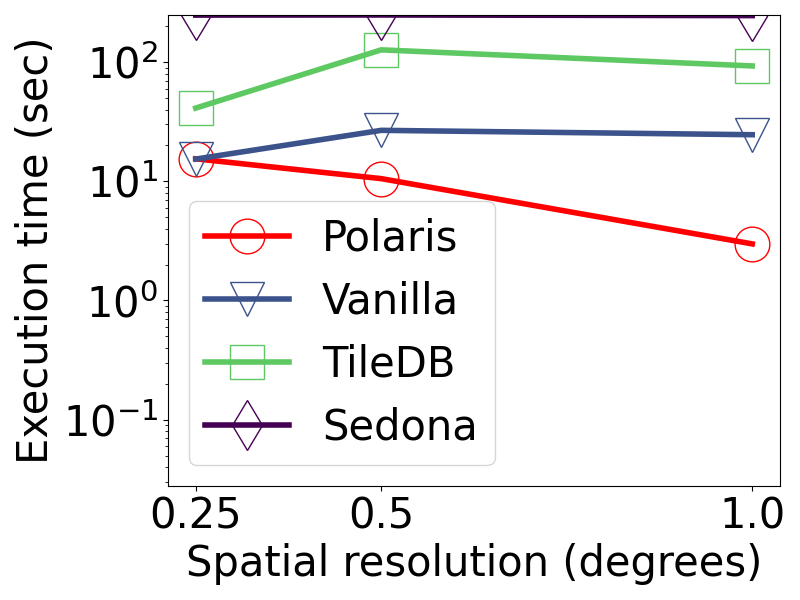
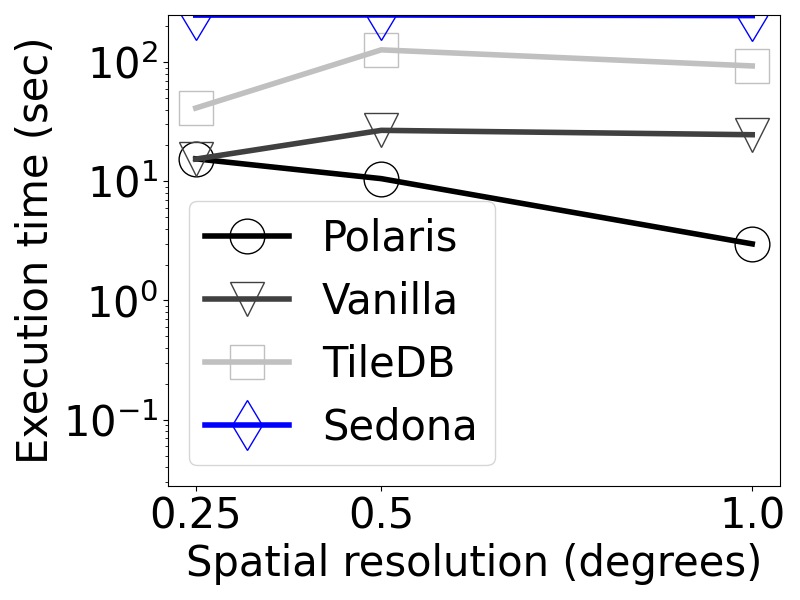
plots resolution grey blue

diff --git a/plots/find_time_driver.py b/plots/find_time_driver.py
@@ -1,0 +1,93 @@
+import pandas as pd
+import matplotlib.pyplot as plt
+import matplotlib
+
+# Load the CSV file
+csv_file_path = "/home/uribe055/merra_2/experiments/results/" + "results_find_time.csv"
+df = pd.read_csv(csv_file_path)
+
+x = "filter_value"
+line = "sys"
+y = "total_time"
+
+# Get unique plot values
+# unique_plots = ["025_H",  "05_M", "1_Y"]
+# cur_plot = [[0.25, "hour"], [0.5, "month"], [1, "year"]]
+unique_plots = ["1_H",  "05_M", "025_Y"]
+# cur_plot = [[1, "hour"], [0.5, "month"], [0.25, "year"]]
+cur_plot = [[2, "hour"], [1, "month"], [0, "year"]]
+
+
+marker_size = 25
+m_fill="none"
+font_size = 30
+tick_font_size = 30
+tick_size = 30
+tick_list = [-0.0005, 0, 0.0005, 0.05, 0.5, 1.5, 2.5, 4.5, 5.5, 6.5]
+tick_labels = [-0.0005, 0, 0.0005, 0.05, 0.5, 1.5, 2.5, 4.5, 5.5, 6.5]
+line_width = 4
+above = "bottom"
+below = "top"
+y_label = "Execution time (sec)"
+viridis = matplotlib.colormaps["viridis"]
+colors = [viridis(i) for i in [0, 0.25, 0.5, 0.75]]
+x_label = "Filter value"
+
+# Define style dictionary based on 'line' values
+style_dict = {
+    "Polaris": {"marker": "o", "markersize": marker_size, "linewidth": line_width, "color": "red", "labelsize": font_size, "ticksize": tick_size, "ticklist": tick_list, "ticklabels": tick_labels, "fill": "none"},
+    "Polaris-ERA5": {"marker": "o", "markersize": marker_size, "linewidth": line_width, "color": "red", "labelsize": font_size, "ticksize": tick_size, "ticklist": tick_list, "ticklabels": tick_labels, "fill": "full"},
+    "Polaris-MERRA2": {"marker": "d", "markersize": marker_size, "linewidth": line_width, "color": "red", "labelsize": font_size, "ticksize": tick_size, "ticklist": tick_list, "ticklabels": tick_labels, "fill": "full"},
+    "Vanilla": {"marker": "v", "markersize": marker_size, "linewidth": line_width, "color": colors[1], "labelsize": font_size, "ticksize": tick_size, "ticklist": tick_list, "ticklabels": tick_labels, "fill": "none"},
+    "TDB": {"marker": "s", "markersize": marker_size, "linewidth": line_width, "color": colors[3], "labelsize": font_size, "ticksize": tick_size, "ticklist": tick_list, "ticklabels": tick_labels, "fill": "none"},
+}
+
+# Determine global y-axis limits
+y_min = df[y].min()
+y_max = df[y].max()
+
+# legend position ["025_H" = , "025_Y" = , "05_M" = , "1_H" = , "1_Y = "]
+legend_position = ["best", "best", "best"]
+
+
+# Generate and save individual plots
+for plot_value, vals, position in zip(unique_plots, cur_plot, legend_position): # strings, [0.25, H]...
+    fig, ax = plt.subplots(figsize=(8, 6))
+    sub1 = df[df["s_res"] == vals[0]]
+    subset = sub1[sub1["t_res"] == vals[1]]
+    
+    for line_value in subset[line].unique():    # for unique system "line"
+        line_data = subset[subset[line] == line_value]
+        line_data = line_data.groupby(x, as_index=False)[y].mean()  # Average over x values
+        line_data = line_data.sort_values(by=x)  # Ensure lines are connected correctly
+        
+        # Get style properties from dictionary, use defaults if not found
+        style = style_dict.get(line_value, {"marker": "o", "markersize": 4, "linewidth": 1.5, "color": "black", "labelsize": 10, "ticksize": 8})
+        
+        ax.plot(line_data[x], line_data[y], 
+                marker=style["marker"], markersize=style["markersize"], fillstyle=style["fill"],
+                linewidth=style["linewidth"], color=style["color"], label=f"{line_value}")
+    
+    ax.set_xlabel(x_label, fontsize=font_size)
+    if style["ticklist"] is not None:
+        ax.set_xticks(ticks=style["ticklist"], labels=style["ticklabels"])
+    ax.set_ylabel(y_label, fontsize=font_size)
+    ax.set_yscale("log")  # Set y-axis to log scale
+    ax.set_ylim(y_min, y_max+100)
+    if plot_value == "1_Y" or plot_value == "05_M":
+        ax.legend(fontsize=font_size, loc=position, bbox_to_anchor=(0.5, 0.35))
+    elif plot_value == "025_Y":
+        ax.legend(fontsize=font_size, loc="center", bbox_to_anchor=(0.5, 0.35))
+    else:
+        ax.legend(fontsize=font_size-5, loc=position)
+    ax.tick_params(axis='both', labelsize=tick_font_size)
+    
+    # test
+    plt.tight_layout()
+    plt.savefig(f"/home/uribe055/merra_2/experiments/plot_drivers/plots/fig8_{plot_value}.png")  # Save the plot to a file
+    plt.close(fig)
+
+    # # final
+    # plt.tight_layout()
+    # plt.savefig(f"")  # Save the plot to a file
+    # plt.close(fig)

diff --git a/plots/result_size_driver.py b/plots/result_size_driver.py
@@ -1,0 +1,90 @@
+'''
+Edited from github repo: 
+    Accessed: May 26, 2025
+'''
+
+import pandas as pd
+import matplotlib.pyplot as plt
+import matplotlib
+
+# Load the CSV file
+csv_file_path = "/home/uribe055/merra_2/experiments/results/" + "results_changing_result_size.csv"
+# csv_file_path = "/home/uribe055/merra_2/experiments/results_using_M_executors/results_changing_result_size.csv"
+df = pd.read_csv(csv_file_path)
+
+# cur_plot = "s_res"
+x = "percent_area"
+line = "sys"
+y = "total_time"
+
+# Get unique plot values
+unique_plots = ["025_H", "0.25_Y", "05_M", "1_H", "1_Y"]
+# cur_plot = [[0.25, "hour"], [0.25, "year"], [0.5, "month"], [1, "hour"], [1, "year"]]
+cur_plot = [[0, "hour"], [0, "year"], [1, "month"], [2, "hour"], [2, "year"]]
+
+marker_size = 25
+m_fill = "none"
+font_size = 30
+tick_font_size = 30
+tick_size = 30
+tick_list = [1, 25, 50, 100]
+tick_labels = [1, 25, 50, 100]
+line_width = 4
+above = "bottom"
+below = "top"
+y_label = "Execution time (sec)"
+viridis = matplotlib.colormaps["viridis"]
+colors = [viridis(i) for i in [0, 0.25, 0.5, 0.75]]
+x_label = "Spatial region (% of Greenland)"
+
+# Define style dictionary based on 'line' values
+style_dict = {
+    "Polaris": {"marker": "o", "markersize": marker_size, "linewidth": line_width, "color": "red", "labelsize": font_size, "ticksize": tick_size, "ticklist": tick_list, "ticklabels": tick_labels, "fill": "none"},
+    "Polaris-ERA5": {"marker": "o", "markersize": marker_size, "linewidth": line_width, "color": "red", "labelsize": font_size, "ticksize": tick_size, "ticklist": tick_list, "ticklabels": tick_labels, "fill": "full"},
+    "Polaris-MERRA2": {"marker": "d", "markersize": marker_size, "linewidth": line_width, "color": "red", "labelsize": font_size, "ticksize": tick_size, "ticklist": tick_list, "ticklabels": tick_labels, "fill": "full"},
+    "Vanilla": {"marker": "v", "markersize": marker_size, "linewidth": line_width, "color": colors[1], "labelsize": font_size, "ticksize": tick_size, "ticklist": tick_list, "ticklabels": tick_labels, "fill": "none"},
+    "TDB": {"marker": "s", "markersize": marker_size, "linewidth": line_width, "color": colors[3], "labelsize": font_size, "ticksize": tick_size, "ticklist": tick_list, "ticklabels": tick_labels, "fill": "none"},
+}
+
+# Determine global y-axis limits
+y_min = df[y].min()
+y_max = df[y].max()
+
+legend_position = ["best", "best", "best", "best", "center right"]    # 'best', 'upper right', 'upper left', 'lower left', 'lower right', 'right', 'center left', 'center right', 'lower center', 'upper center', 'center'
+
+# Generate and save individual plots
+for plot_value, vals, position  in zip(unique_plots, cur_plot, legend_position):
+    fig, ax = plt.subplots(figsize=(8, 6))
+    sub1 = df[df["s_res"] == vals[0]]
+    subset = sub1[sub1["t_res"] == vals[1]] 
+    
+    for line_value in subset[line].unique():
+        line_data = subset[subset[line] == line_value]  
+        line_data = line_data.groupby(x, as_index=False)[y].mean()  # Average over x values
+        line_data = line_data.sort_values(by=x)  # Ensure lines are connected correctly
+
+        # Get style properties from dictionary, use defaults if not found
+        style = style_dict.get(line_value, {"marker": "o", "markersize": 4, "linewidth": 1.5, "color": "black", "labelsize": 10, "ticksize": 8, "ticklist":tick_list})
+        
+        ax.plot(line_data[x], line_data[y], 
+                marker=style["marker"], markersize=style["markersize"], fillstyle=style["fill"],
+                linewidth=style["linewidth"], color=style["color"], label=f"{line_value}")
+    
+    ax.set_xlabel(x_label, fontsize=font_size)
+    if style["ticklist"] is not None:
+        ax.set_xticks(ticks=style["ticklist"], labels=style["ticklabels"])
+    ax.set_ylabel(y_label, fontsize=font_size)
+    ax.set_yscale("log")  # Set y-axis to log scale
+    ax.set_ylim(y_min, y_max)
+    ax.legend(fontsize=font_size-5, loc=position)
+    ax.tick_params(axis='both', labelsize=tick_font_size)
+    
+    # test
+    plt.tight_layout()
+    plt.savefig(f"/home/uribe055/merra_2/experiments/plot_drivers/plots/fig6_{plot_value}.png")  # Save the plot to a file
+    plt.close(fig)
+
+    # final
+    # plt.tight_layout()
+    # plt.savefig(f"")  # Save the plot to a file
+    # plt.close(fig)

diff --git a/plots/heatmap_driver.py b/plots/heatmap_driver.py
@@ -1,0 +1,87 @@
+import pandas as pd
+import matplotlib.pyplot as plt
+import matplotlib
+
+# Load the CSV file
+# csv_file_path = "/home/uribe055/merra_2/experiments/results_all/fig7.csv"
+csv_file_path = "/home/uribe055/merra_2/experiments/results/results_heatmap.csv"
+df = pd.read_csv(csv_file_path)
+
+# cur_plot = "s_res"
+x = "time_span"
+line = "sys"
+y = "total_time"
+
+# Get unique plot values
+unique_plots = ["025_H", "05_Y", "025_M", "05_H", "05_Y"]
+cur_plot = [[0, "hour"], [1, "year"], [0, "month"], [1, "hour"], [1, "year"]]
+
+
+marker_size = 25
+m_fill="none"
+font_size = 30
+tick_font_size = 30
+tick_size = 30
+tick_list = [1, 2.5, 5, 10]
+tick_labels = [1, 2.5, 5, 10]
+line_width = 4
+above = "bottom"
+below = "top"
+y_label = "Execution time (sec)"
+viridis = matplotlib.colormaps["viridis"]
+colors = [viridis(i) for i in [0, 0.25, 0.5, 0.75]]
+x_label = "Time span (years)"
+
+# Define style dictionary based on 'line' values
+style_dict = {
+    "Polaris": {"marker": "o", "markersize": marker_size, "linewidth": line_width, "color": "red", "labelsize": font_size, "ticksize": tick_size, "ticklist": tick_list, "ticklabels": tick_labels, "fill": "none"},
+    "Polaris-ERA5": {"marker": "o", "markersize": marker_size, "linewidth": line_width, "color": "red", "labelsize": font_size, "ticksize": tick_size, "ticklist": tick_list, "ticklabels": tick_labels, "fill": "full"},
+    "Polaris-MERRA2": {"marker": "d", "markersize": marker_size, "linewidth": line_width, "color": "red", "labelsize": font_size, "ticksize": tick_size, "ticklist": tick_list, "ticklabels": tick_labels, "fill": "full"},
+    "Vanilla": {"marker": "v", "markersize": marker_size, "linewidth": line_width, "color": colors[1], "labelsize": font_size, "ticksize": tick_size, "ticklist": tick_list, "ticklabels": tick_labels, "fill": "none"},
+    "TDB": {"marker": "s", "markersize": marker_size, "linewidth": line_width, "color": colors[3], "labelsize": font_size, "ticksize": tick_size, "ticklist": tick_list, "ticklabels": tick_labels, "fill": "none"},
+}
+
+# Determine global y-axis limits
+y_min = df[y].min()
+y_max = df[y].max()
+
+# legend position ["025_H" = , "025_Y" = , "05_M" = , "1_H" = , "1_Y = "]
+legend_position = ["center"]*5
+
+
+# Generate and save individual plots
+for plot_value, vals, positon in zip(unique_plots, cur_plot, legend_position): # strings, [0.25, H]...
+    fig, ax = plt.subplots(figsize=(8, 6))
+    sub1 = df[df["s_res"] == vals[0]]
+    subset = sub1[sub1["t_res"] == vals[1]]
+    
+    for line_value in subset[line].unique():    # for unique system "line"
+        line_data = subset[subset[line] == line_value]
+        line_data = line_data.groupby(x, as_index=False)[y].mean()  # Average over x values
+        line_data = line_data.sort_values(by=x)  # Ensure lines are connected correctly
+        
+        # Get style properties from dictionary, use defaults if not found
+        style = style_dict.get(line_value, {"marker": "o", "markersize": 4, "linewidth": 1.5, "color": "black", "labelsize": 10, "ticksize": 8})
+        
+        ax.plot(line_data[x], line_data[y], 
+                marker=style["marker"], markersize=style["markersize"], fillstyle=m_fill,
+                linewidth=style["linewidth"], color=style["color"], label=f"{line_value}")
+    
+    ax.set_xlabel(x_label, fontsize=font_size)
+    if style["ticklist"] is not None:
+        ax.set_xticks(ticks=style["ticklist"], labels=style["ticklabels"])
+    ax.set_ylabel(y_label, fontsize=font_size)
+    ax.set_yscale("log")  # Set y-axis to log scale
+    ax.set_ylim(y_min, y_max)
+    ax.legend(fontsize=font_size, loc=positon)
+    ax.tick_params(axis='both', labelsize=tick_font_size)
+    
+    # test
+    plt.tight_layout()
+    plt.savefig(f"/home/uribe055/merra_2/experiments/plot_drivers/plots/fig7_{plot_value}.png")  # Save the plot to a file
+    plt.close(fig)
+
+    # # final
+    # plt.tight_layout()
+    # plt.savefig(f"/home/uribe055/experiment-kit/round2/all_final_figs/h/heatmap_{plot_value}.eps")  # Save the plot to a file
+    # plt.close(fig)

diff --git a/plots/resolution_driver.py b/plots/resolution_driver.py
@@ -1,6 +1,6 @@
 '''
-Edited from github repo: https://github.com/iharp3/experiment-kit/blob/main/round2/figs/code/5cplot.py
-    Accessed: May 23, 2025
+Edited from github repo: 
+    Accessed: May 26, 2025
 '''
 
 import pandas as pd
@@ -30,14 +30,14 @@ line_width = 4
 above = "bottom"
 below = "top"
 y_label = "Execution time (sec)"
-viridis = matplotlib.colormaps["viridis"]
+viridis = matplotlib.colormaps["gray"]       # color - viridis 
 colors = [viridis(i) for i in [0, 0.25, 0.5, 0.75]]
 x_label = "Spatial resolution (degrees)"
 
 # Define style dictionary based on 'line' values
 style_dict = {
-    "Polaris": {"marker": "o", "markersize": marker_size, "linewidth": line_width, "color": "red", "labelsize": font_size, "ticksize": tick_size, "ticklist": tick_list, "ticklabels": tick_labels, "fill": "none"},
-    "Sedona": {"marker": "d", "markersize": marker_size, "linewidth": line_width, "color": colors[0], "labelsize": font_size, "ticksize": tick_size, "ticklist": tick_list, "ticklabels": tick_labels, "fill": "none"},
+    "Polaris": {"marker": "o", "markersize": marker_size, "linewidth": line_width, "color": colors[0], "labelsize": font_size, "ticksize": tick_size, "ticklist": tick_list, "ticklabels": tick_labels, "fill": "none"},
+    "Sedona": {"marker": "d", "markersize": marker_size, "linewidth": line_width, "color": "blue", "labelsize": font_size, "ticksize": tick_size, "ticklist": tick_list, "ticklabels": tick_labels, "fill": "none"},
     "Vanilla": {"marker": "v", "markersize": marker_size, "linewidth": line_width, "color": colors[1], "labelsize": font_size, "ticksize": tick_size, "ticklist": tick_list, "ticklabels": tick_labels, "fill": "none"},
     "TileDB": {"marker": "s", "markersize": marker_size, "linewidth": line_width, "color": colors[3], "labelsize": font_size, "ticksize": tick_size, "ticklist": tick_list, "ticklabels": tick_labels, "fill": "none"},
 }
@@ -91,7 +91,7 @@ for plot_value, position  in zip(unique_plots, legend_position):
     
     # test
     plt.tight_layout()
-    plt.savefig(f"/home/uribe055/sedona_experiments/plots/res__{plot_value}.png")  # Save the plot to a file
+    plt.savefig(f"/home/uribe055/sedona_experiments/plots/changing_resolutions/res__{plot_value}.png")  # Save the plot to a file
     plt.close(fig)
 
     # final
